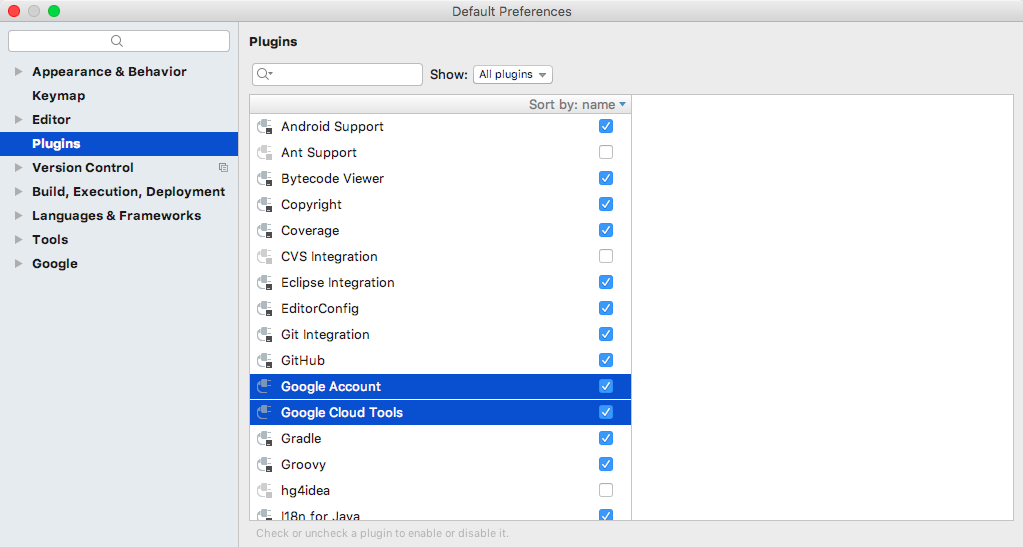
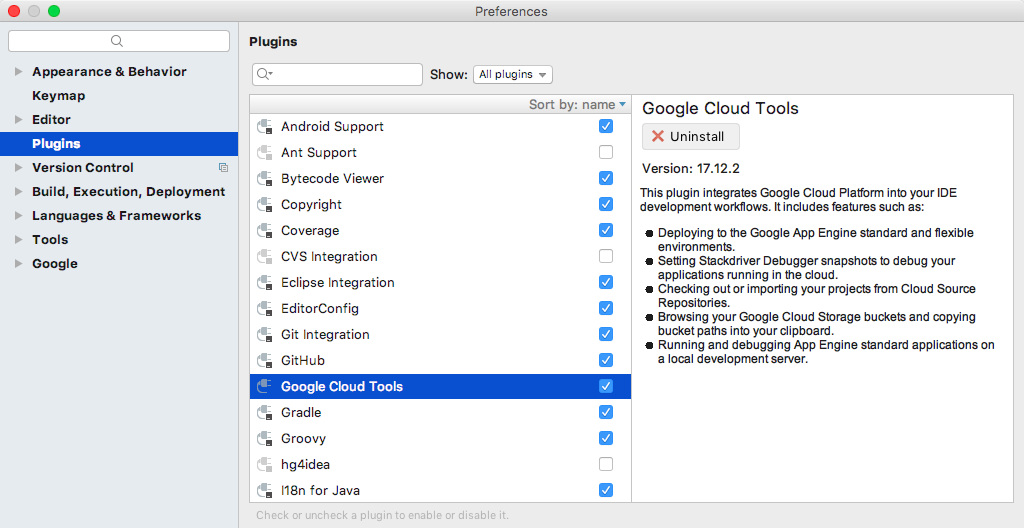
[#8271] Update build-related instructions (#8276)

Changed region(s): [[0.0, 0.0303, 0.9697, 0.9697], [0.4242, 0.0, 0.5758, 0.0303]]

diff --git a/docs/ide-setup.md b/docs/ide-setup.md
@@ -40,7 +40,7 @@ Supported Eclipse versions: [Eclipse IDE for Java EE Developers version Neon or 
    ./gradlew setupEclipse
    ```
 
-   **Verification:** The folder `.launches` should be added to the project root directory.
+   **Verification:** The folder `.launches` and files `.classpath`, `.project` should be added to the project root directory.
 
 1. Import the project to your Eclipse instance.
    * Go to `File → Import...`.
@@ -52,7 +52,7 @@ Supported Eclipse versions: [Eclipse IDE for Java EE Developers version Neon or 
    You need not be alarmed as these will be resolved in the next step.
 
 1. Configure the following project-specific settings (all can be found in `Project → Properties → ...`, except for the HTML, CSS and XML settings which can be found in `Eclipse → Preferences → ...`):
-   * Text encoding: In TEAMMATES, we use `UTF-8` for text encoding.
+   * Text encoding: `UTF-8` is used for text encoding.
      Configure for all the languages used in TEAMMATES in `Eclipse → Preferences → ...`. Change to `UTF-8` if it is not the default value.
      * General: `General → Workspace → Text file encoding`.
      * HTML: `Web → HTML Files → Encoding`. Alternatively, tick `Use workspace encoding`.
@@ -68,15 +68,17 @@ Supported Eclipse versions: [Eclipse IDE for Java EE Developers version Neon or 
 
      ![eclipsesetupguide-7.png](images/eclipsesetupguide-7.png)
 
-   * Indentation: In TEAMMATES, we use 4 spaces in place of tabs for indentations.
+   * Indentation: 4 spaces are used in place of tabs for indentations. For JSON, HTML, and HTML-like documents, 2 spaces are used instead.
      Configure for all the languages used in TEAMMATES:
      * Java: `Java → Code Style → Formatter → Edit → Tab policy → Spaces only`.
      * JavaScript: `JavaScript → Code Style → Formatter → Edit → Tab policy → Spaces only`.
      
-     You can find the Web and XML options in `Eclipse → Preferences → ...`.
+     You can find the Web, XML, and JSON options in `Eclipse → Preferences → ...`.
      * HTML: `Web → HTML Files → Editor → Indent using spaces`.
      * CSS: `Web → CSS Files → Editor → Indent using spaces`.
      * XML: `XML → XML Files → Editor → Indent using spaces`.
+     * JSON: `JSON → JSON Files → Editor → Indent using spaces`.
+
    * Validation: Go to `Validation → ...`
      * Disable validation for HTML, JSP, and XML: Uncheck the `Build` option for `HTML Syntax Validator`, `JSP Content Validator`, `JSP Syntax Validator`, `XML Schema Validator`, and `XML Validator`.
      * Disable validation for JavaScript and JSON files in `node_modules` folder: Click the `...` settings button for `JavaScript Validation` → if `Exclude Group` is not already in the list then click `Add Exclude Group...` → `Exclude Group` → `Add Rule...` → `Folder or file name` → `Next` → `Browse Folder...` → navigate to the `node_modules` folder and confirm → `Finish`. Similarly for `JSON Validator`.
@@ -112,8 +114,7 @@ You can sign up for the free [JetBrains student license](https://www.jetbrains.c
 1. You need the [Google Cloud Tools](https://cloud.google.com/tools/intellij/docs/quickstart-IDEA#install) plugin installed and configured:
 
    ![intellijsetupguide-2.png](images/intellijsetupguide-2.png)
-   * During installation, you may encounter two prompts: one to install the `Google Account` plugin dependency and
-     another to disable the obsolete `Google App Engine Integration` plugin. Answer `Yes` to both prompts.
+   * During installation, you may encounter a prompt to disable the obsolete `Google App Engine Integration` plugin. Answer `Yes`.
    * After installation, restart IntelliJ IDEA and configure the plugin.
      Click `Configure → Settings/Preferences` (or `IntelliJ IDEA → Preferences` if a project is currently open),
      go to `Other Settings → Google → Cloud SDK`, and select your Google Cloud SDK directory.
@@ -140,22 +141,20 @@ You can sign up for the free [JetBrains student license](https://www.jetbrains.c
       > If you closed or missed the dialog box, go to `View → Tool Windows → Event Log`.
         You should see the same message as the dialog box, click `Configure` and then `OK`.
 
-1. Configure the project settings as follows:
+1. Configure the following project-specific settings (all can be found in `IntelliJ IDEA → Preferences → ...`):
 
-   #### Indentation
-   In TEAMMATES, we have standards defined for indentation.
-   See [Coding standards in Supplementary documents](README.md#supplementary-documents).
-   1. Open `IntelliJ IDEA → Preferences`.
-   1. Go to `Editor → Code Style` and ensure that `Use tab character` is unchecked for `Java`, `JavaScript`, `JSON`, `CSS` and `XML`.
-   1. Ensure that `Tab size:`, `Indent:` and `Continuation indent:` are `4`, `4` and `8` respectively for the different languages.
-   1. Ensure `HTML` has `Use tab character` unchecked and set `Tab Size:`, `Indent:` and `Continuation indent:` to `2`, `2` and `4` respectively.
-   1. Ensure `JSP` has `Use tab character` unchecked and set `Tab Size:`, `Indent:` and `Continuation indent:` to `2`, `2` and `4` respectively.
+   * Indentation: 4 spaces are used in place of tabs for indentations. For JSON, HTML, and HTML-like documents, 2 spaces are used instead.
+     Configure for all the languages used in TEAMMATES:
+     1. Go to `Editor → Code Style`.
+     1. Select `Project` for `Scheme` if you do not wish to make the rules the default for your IDE.
+     1. For `Java`, `JavaScript`, `JSON`, `CSS`, `XML`, `HTML`, and `JSP`:
+        * Ensure that `Use tab character` is unchecked, and `Tab size:`, `Indent:`, and `Continuation indent:` are `4`, `4`, and `8` respectively.
+        * For `HTML`, `JSON`, and `JSP`, the numbers are `2`, `2`, and `4` instead.
 
-   #### Text Encoding
-   Go to `Editor → File Encodings` and ensure that `Project Encoding` and `Default Encoding for properties files` is set to `UTF-8`.
+   * Text encoding: `UTF-8` is used for text encoding.
+     Go to `Editor → File Encodings` and ensure that `Project Encoding` and `Default Encoding for properties files` is set to `UTF-8`.
 
-   #### Javascript
-   Go to `Languages & Frameworks → JavaScript` and select `ECMAScript 6` for the `JavaScript language version`.
+   * JavaScript: Go to `Languages & Frameworks → JavaScript` and select `ECMAScript 6` for the `JavaScript language version`.
 
 1. Click `OK`.
 

diff --git a/docs/dependencies.md b/docs/dependencies.md
@@ -1,32 +1,28 @@
+# Managing Dependencies
 
-# Managing Server-Side Dependencies
+## Managing Server-Side Dependencies
 
-TEAMMATES uses Gradle to manage dependencies to external Java libraries.
+- Dependency management tool: Gradle
+- Library source: [JCenter](https://bintray.com/bintray/jcenter)
+- Configuration: `build.gradle`
 
-- [Adding new libraries](#adding-new-libraries)
-- [Updating libraries](#updating-libraries)
-
-## Adding new libraries
-
-There are two factors to consider:
-- Whether the library is for production or non-production code
-- Whether the library is needed for compile-time or runtime only
-
-Add the library based on the name listed in [Maven Central](http://search.maven.org) in the appropriate section in the `build.gradle` file.
-
-## Updating libraries
-
-To update a library's version, simply change the version number declared in `build.gradle` file.
+To update your local library configuration:
 
 - If you are using command line, your next build will automatically reflect the change.
 - If you are using Eclipse, right click on the project in the Project Explorer and select `Gradle → Refresh Gradle Project` for the changes to be reflected.
 - If you are using IntelliJ, dependencies are automatically refreshed as soon as changes to the file are detected (assuming auto-import is enabled).
 
-# Managing Client-Side Dependencies
+## Managing Client-Side Dependencies
 
-We use [NPM registry](https://www.npmjs.com) as the source of library codes.
+- Dependency management tool: NPM
+- Library source: [NPM registry](https://www.npmjs.com)
+- Configuration:
+  - Production dependencies: `src/main/resources/package.json`
+  - Development dependencies: `package.json`
 
-To add/update libraries for CSS/JS, modify the appropriate entry in `src/main/resources/package.json`.
-Additionally, when adding new libraries, find the files from the library that are necessary to be loaded to webpages, and add a new entry(ies) in `FrontEndLibrary.java`.
+If a library cannot be found in the NPM registry, simply host a local copy in the repository.
 
-If the library cannot be found in NPM, simply host a local copy in the repository.
+To update your local library configuration:
+
+- For production dependencies, only if you are adding/updating the library, find the files from the library that are necessary to be loaded to webpages, and add/update the entry(ies) in `FrontEndLibrary.java`.
+- For development dependencies, run `npm install` from the project root folder.

diff --git a/docs/setting-up.md b/docs/setting-up.md
@@ -12,7 +12,8 @@ The instructions in all parts of this document work for Linux, OS X, and Windows
 
 ## Step 1: Install necessary tools and languages
 
-1. Install Source Tree or other similar Git Client, or at least Git.
+1. Install Git.
+   1. (Optional but recommended) Install Sourcetree or other similar Git client.
 1. Install JDK 1.8.
 1. Install Python 2.7.
 1. Install Node.js (minimum version 4.x).
@@ -42,7 +43,7 @@ More information can be found at [this documentation](https://help.github.com/ar
 
 ## Step 3: Set up project-specific settings and dependencies
 
-1. Install Google Cloud SDK version 179.0.0. Follow the directions given [here](https://cloud.google.com/sdk/downloads).
+1. Install Google Cloud SDK. Follow the directions given [here](https://cloud.google.com/sdk/downloads).
    Note that you *do not* need to [initialize the SDK](https://cloud.google.com/sdk/docs/initializing).
    ```sh
    # This command is to be run at the Google Cloud SDK directory
@@ -75,8 +76,6 @@ More information can be found at [this documentation](https://help.github.com/ar
 1. Modify the following config file:
    * `gradle.properties`<br>
       If you want to use a JDK other than the one specified in your PATH variable, add the value to the variable `org.gradle.java.home`.
-      This value must be a valid **JDK 1.8** directory.
-      **Windows users** should use a **forward slash** (`/`) instead of the Windows default **backward slash** (`\`) while specifying the path.
 
 ## Step 4: (Optional but recommended) Set up an IDE
 
@@ -85,7 +84,7 @@ You are encouraged, but not required, to use an IDE to assist many development t
 We currently support two IDEs: Eclipse IDE and IntelliJ IDEA.
 Support requests related to other IDEs will not be entertained.
 
-Refer to [this document](ide-usage.md) if you wish to set up an IDE for developing TEAMMATES.
+Refer to [this document](ide-setup.md) if you wish to set up an IDE for developing TEAMMATES.
 
 ## Step 5: Start developing
 

diff --git a/docs/orientation-guide.md b/docs/orientation-guide.md
@@ -50,7 +50,7 @@ Of course we are happy to guide you if you encounter any difficulties when doing
 
 1. [Set up TEAMMATES development environment on your computer.](setting-up.md)<br>
    **Important: Follow instructions to the letter. Install the specified versions of the tool stack, not the latest versions.**
-1. [Optional but recommended] [Set up the TEAMMATES project in an IDE](ide-usage.md).
+1. [Optional but recommended] [Set up the TEAMMATES project in an IDE](ide-setup.md).
 1. Get the test to pass (more info in [_Development Guidelines_ document](development.md)). It is OK to proceed to the next phase if you have fewer than 5 failing test cases.
 
 ### **Phase C**: Tinker with the code

diff --git a/docs/README.md b/docs/README.md
@@ -8,7 +8,7 @@ Here are some documents important for TEAMMATES developers.
 * The [**glossary**](glossary.md) of terms used in the project.
 * Software [**Design**](design.md) - Architecture, APIs, etc.
 * How to [**set up the developer environment**](setting-up.md).
-  * How to [**set up some IDEs for development**](ide-usage.md).
+  * How to [**set up some IDEs for development**](ide-setup.md).
 * [**Development guideline**](development.md) - how to work with your own copy of TEAMMATES.
 * The [**workflow/process to follow**](process.md) when contributing to TEAMMATES.
 * [**Developer Troubleshooting Guide**](troubleshooting-guide.md)

diff --git a/docs/development.md b/docs/development.md
@@ -36,8 +36,6 @@ This command needs to be run before starting the dev server if there are updates
 
 ### With command line
 
-* Change the value of `org.gradle.daemon` in `gradle.properties` to `true`.
-
 #### Starting the dev server
 
 To start the server in the background, run the following command
